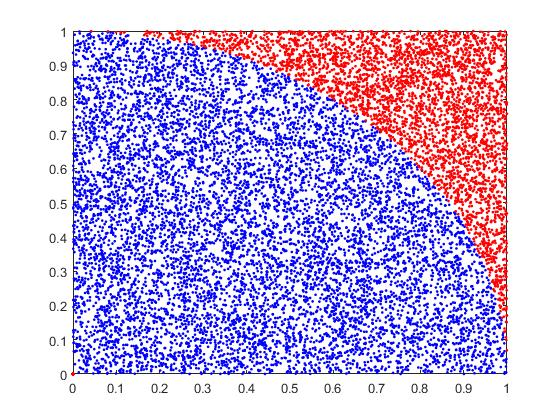
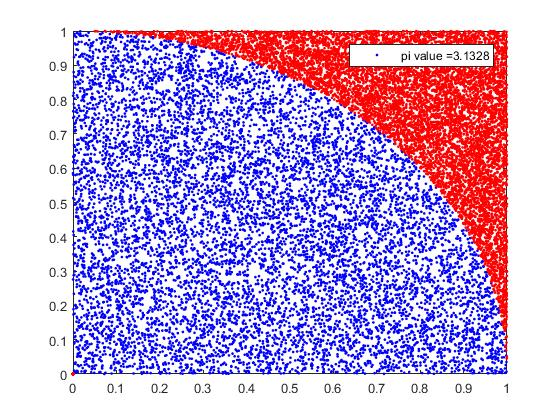
Pi Vaule

diff --git a/valueofpi.m b/valueofpi.m
@@ -1,11 +1,7 @@
 clc
-%rng(0,'v5uniform');
-%ang = 0:0.000001:pi/2;
 N = 10000;
 u = rand(1,N);
 v = rand(1,N);
-%xp = cos(ang);
-%yp = sin(ang);
 count = 0;
 for idx = 1:N
     if u(idx)^2 + v(idx)^2 <= 1
@@ -22,3 +18,4 @@ hold on
 plot(x2p,y2p,'r.');
 hold off
 pi_new = 4*(count/N);
+legend(strcat('pi value = ', num2str(pi_new)));
